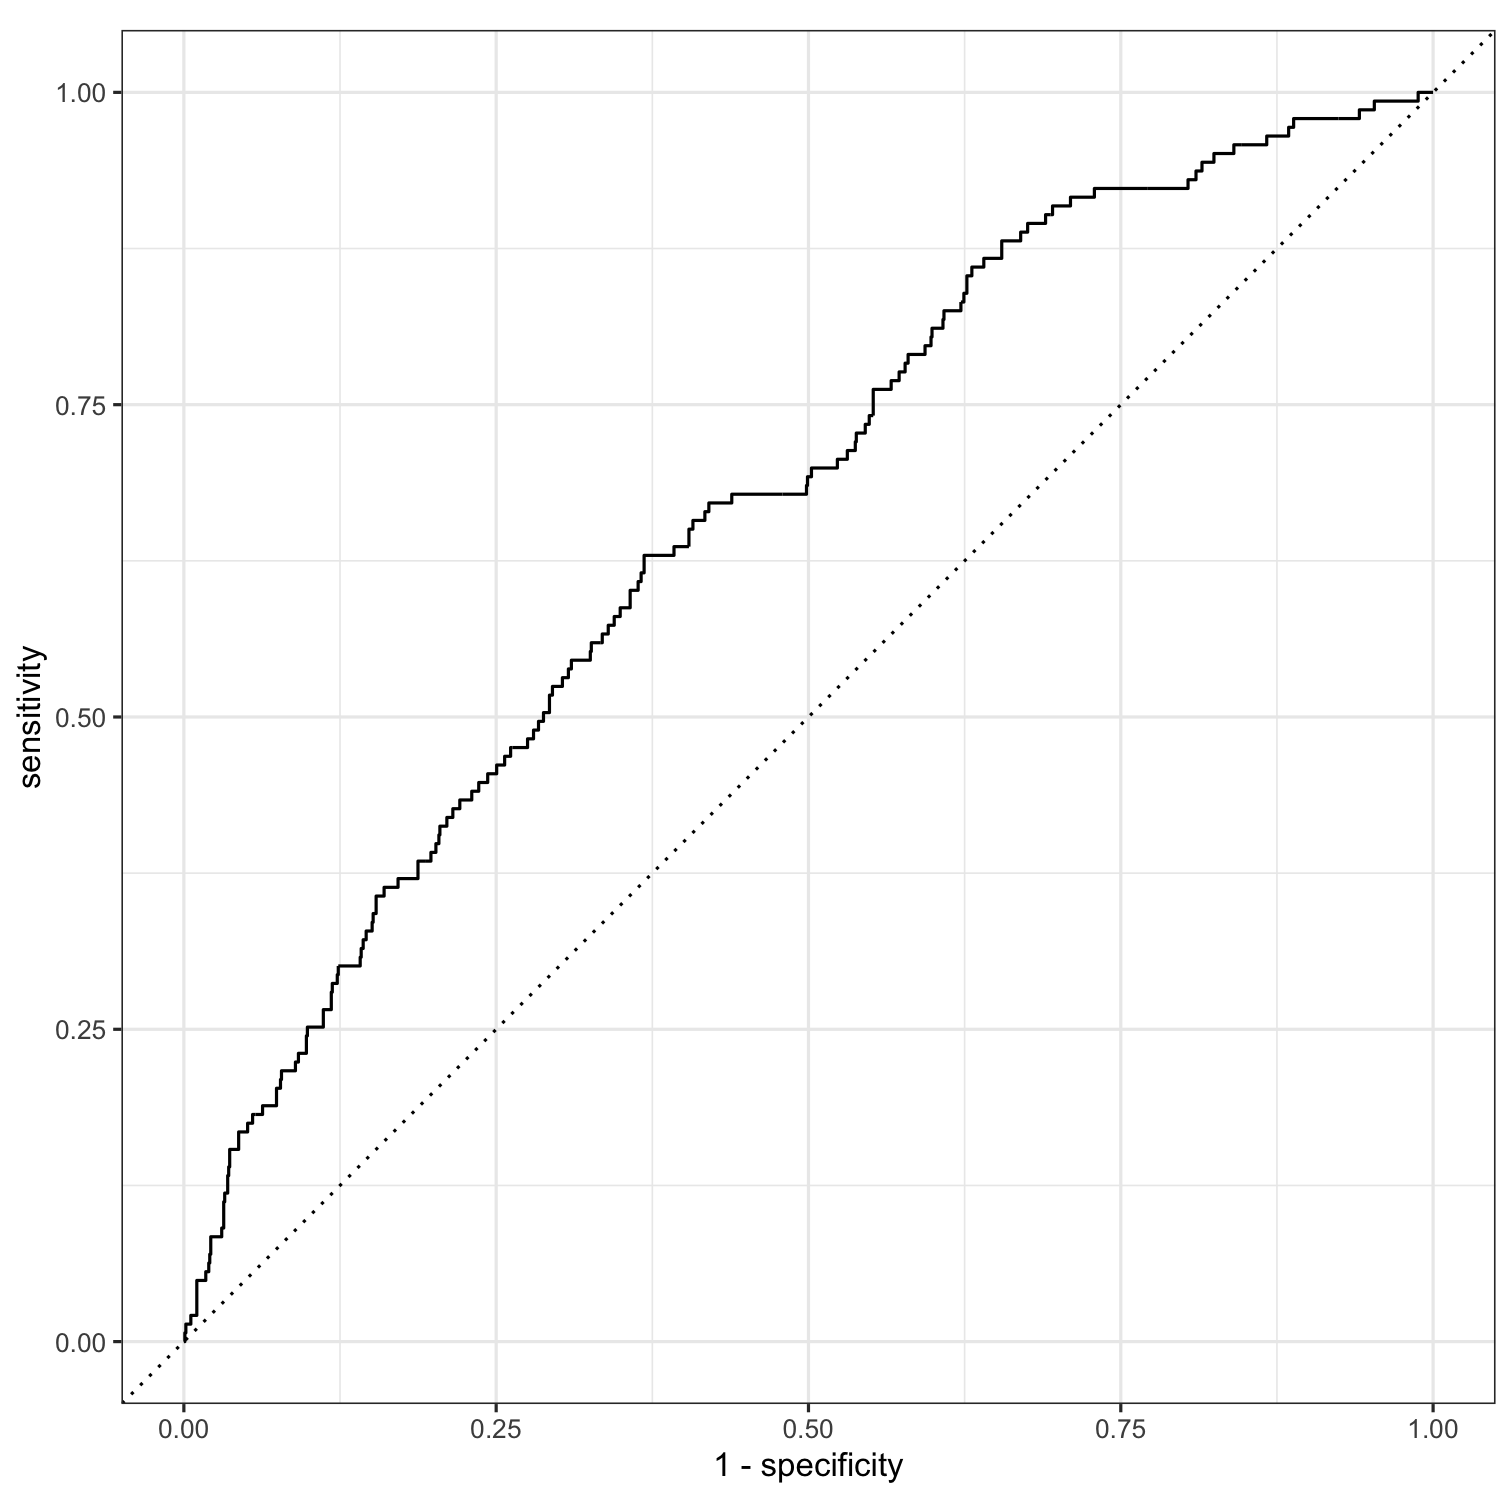
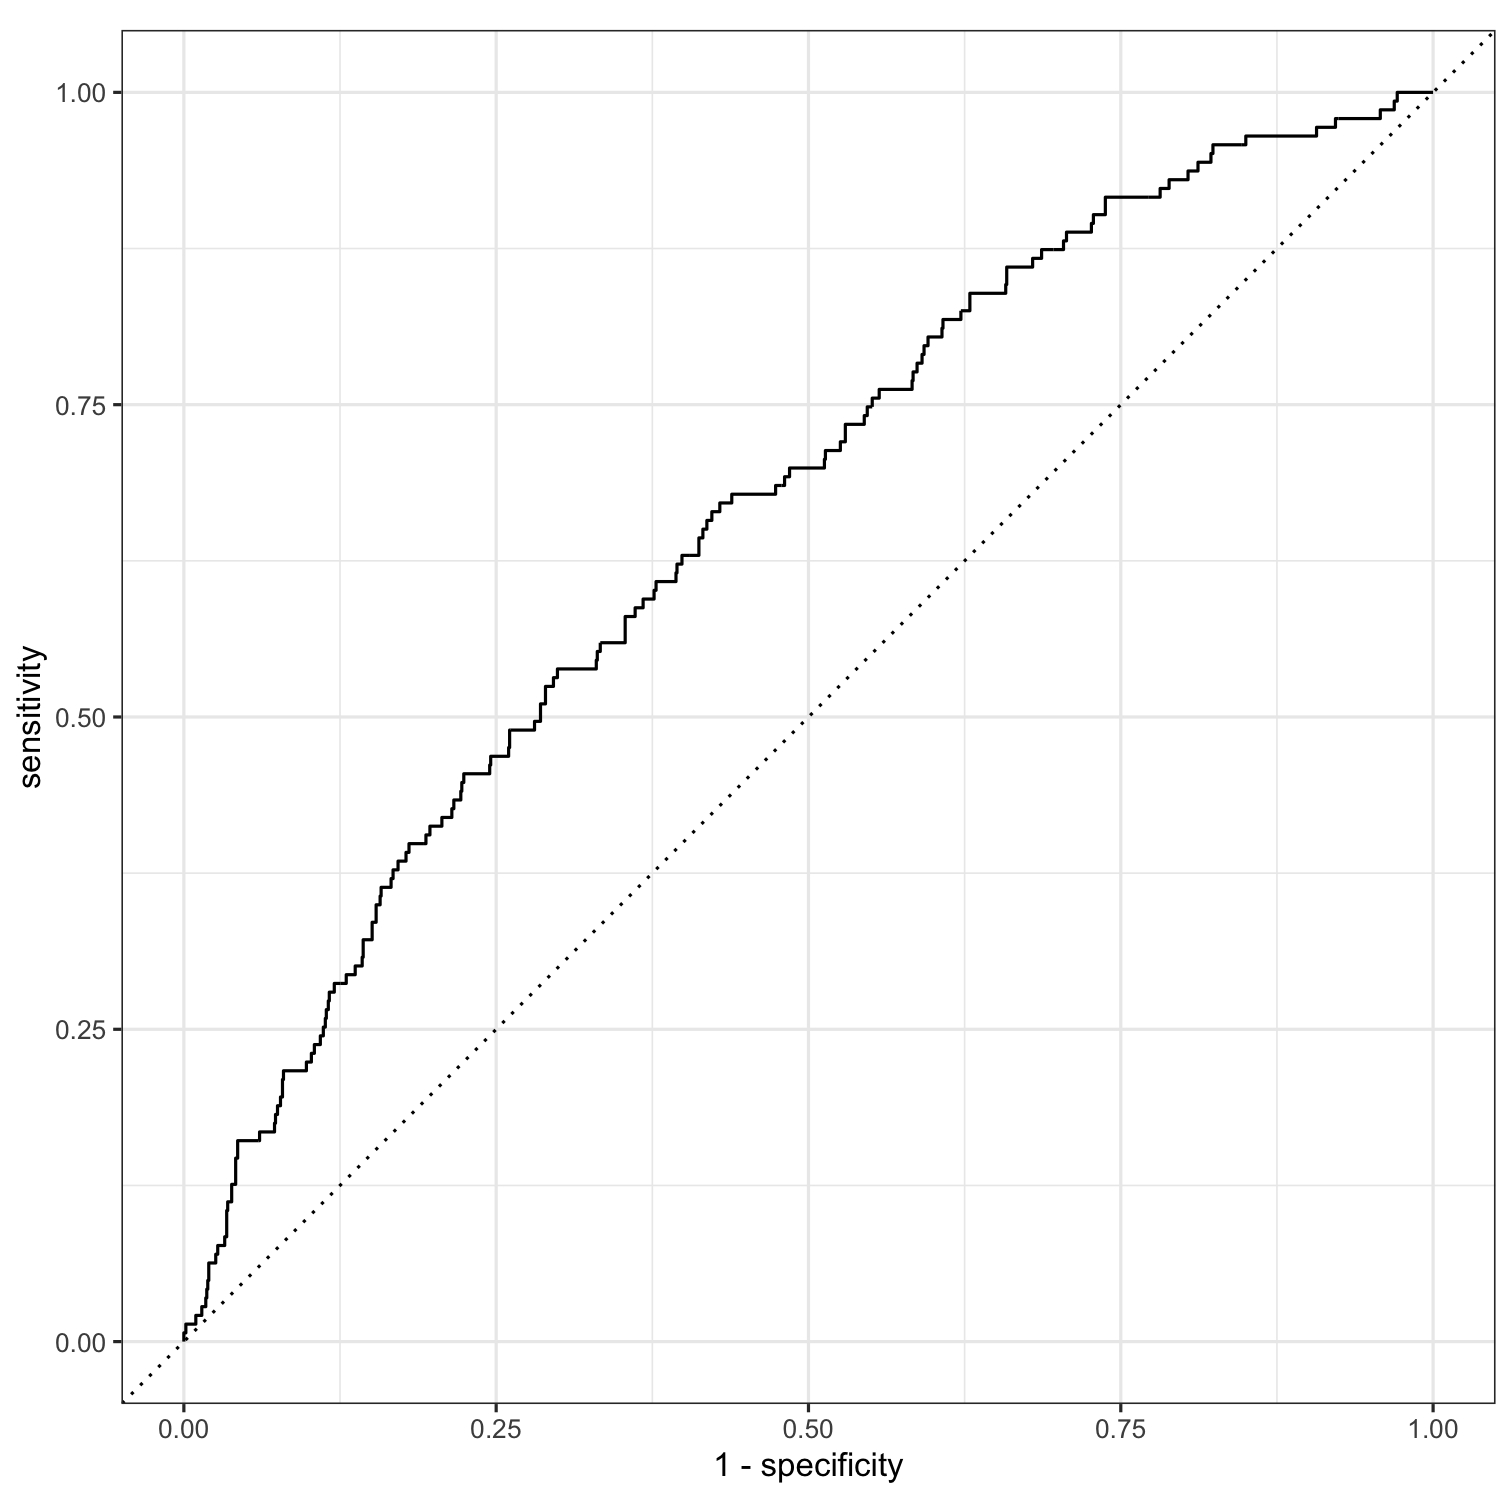
finish exercises; update slides

diff --git a/site/static/slides/14-Tuning.html b/site/static/slides/14-Tuning.html
@@ -4,7 +4,7 @@
     <title>Model Tuning</title>
     <meta charset="utf-8" />
     <meta name="author" content="W. Jake Thompson" />
-    <meta name="date" content="2021-06-04" />
+    <meta name="date" content="2021-06-06" />
     <script src="libs/header-attrs/header-attrs.js"></script>
     <link href="libs/remark-css/default.css" rel="stylesheet" />
     <script src="libs/clipboard/clipboard.min.js"></script>
@@ -87,7 +87,7 @@ class: your-turn
 * Run the setup chunk
 ]
 
-<div class="countdown" id="timer_60bade14" style="right:0;bottom:0;font-size:2em;" data-warnwhen="0">
+<div class="countdown" id="timer_60bd4ba2" style="right:0;bottom:0;font-size:2em;" data-warnwhen="0">
 <code class="countdown-time"><span class="countdown-digits minutes">01</span><span class="countdown-digits colon">:</span><span class="countdown-digits seconds">00</span></code>
 </div>
 
@@ -157,7 +157,7 @@ knn5_spec &lt;-
   set_mode("regression")
 ```
 
-<div class="countdown" id="timer_60badd48" style="right:0;bottom:0;" data-warnwhen="0">
+<div class="countdown" id="timer_60bd4d30" style="right:0;bottom:0;" data-warnwhen="0">
 <code class="countdown-time"><span class="countdown-digits minutes">01</span><span class="countdown-digits colon">:</span><span class="countdown-digits seconds">00</span></code>
 </div>
 
@@ -168,7 +168,7 @@ class: your-turn
 
 Combine the recipe and model into a new workflow named `knn_wf`. Fit the workflow to `cv_folds` and collect its RMSE.
 
-<div class="countdown" id="timer_60badd12" style="right:0;bottom:0;" data-warnwhen="0">
+<div class="countdown" id="timer_60bd4a1a" style="right:0;bottom:0;" data-warnwhen="0">
 <code class="countdown-time"><span class="countdown-digits minutes">05</span><span class="countdown-digits colon">:</span><span class="countdown-digits seconds">00</span></code>
 </div>
 
@@ -199,7 +199,7 @@ class: your-turn
 
 Repeat the process in Your Turn 1 with a similar workflow that uses `neighbors = 10`. Does the RMSE change?
 
-<div class="countdown" id="timer_60badc4d" style="right:0;bottom:0;" data-warnwhen="0">
+<div class="countdown" id="timer_60bd4d17" style="right:0;bottom:0;" data-warnwhen="0">
 <code class="countdown-time"><span class="countdown-digits minutes">05</span><span class="countdown-digits colon">:</span><span class="countdown-digits seconds">00</span></code>
 </div>
 
@@ -438,7 +438,7 @@ class: your-turn
 
 Use `expand_grid()` to create a grid of values for neighbors that spans from 10 to 20. Save the result as `k10_20`.
 
-<div class="countdown" id="timer_60baddc8" style="right:0;bottom:0;" data-warnwhen="0">
+<div class="countdown" id="timer_60bd4a5d" style="right:0;bottom:0;" data-warnwhen="0">
 <code class="countdown-time"><span class="countdown-digits minutes">02</span><span class="countdown-digits colon">:</span><span class="countdown-digits seconds">00</span></code>
 </div>
 
@@ -470,13 +470,13 @@ class: your-turn
 
 # Your Turn 4
 
-Create a knn workflow that tunes over neighbors. 
+Create a knn workflow that tunes over `neighbors` and uses your `normalize_rec` recipe.
 
 Then use `tune_grid()`, `cv_folds` and `k10_20` to find the best value of neighbors. 
 
 Save the output of `tune_grid()` as `knn_results`.
 
-<div class="countdown" id="timer_60badd1f" style="right:0;bottom:0;" data-warnwhen="0">
+<div class="countdown" id="timer_60bd4dae" style="right:0;bottom:0;" data-warnwhen="0">
 <code class="countdown-time"><span class="countdown-digits minutes">05</span><span class="countdown-digits colon">:</span><span class="countdown-digits seconds">00</span></code>
 </div>
 
@@ -596,7 +596,7 @@ class: your-turn
 Modify our PCA workflow provided to find the best value for `num_comp` on the grid provided. Which is it? Use `show_best()` to see. Save the output of the fit function as `pca_results`.
 
 
-<div class="countdown" id="timer_60baddf5" style="right:0;bottom:0;" data-warnwhen="0">
+<div class="countdown" id="timer_60bd4a4a" style="right:0;bottom:0;" data-warnwhen="0">
 <code class="countdown-time"><span class="countdown-digits minutes">05</span><span class="countdown-digits colon">:</span><span class="countdown-digits seconds">00</span></code>
 </div>
 
@@ -724,11 +724,11 @@ Edit the random forest model to tune the `mtry` and `min_n` hyper-parameters; ca
 
 Update the model for your workflow; save it as `rf_twf`.
 
-Tune the workflow to so_folds and show the best combination of hyper-parameters to maximize `roc_auc`. 
+Tune the workflow to `so_folds` and show the best combination of hyper-parameters to maximize `roc_auc`. 
 
 How does it compare to the average ROC AUC across folds from `fit_resamples()`?
 
-<div class="countdown" id="timer_60badf0e" style="right:0;bottom:0;" data-warnwhen="0">
+<div class="countdown" id="timer_60bd4c46" style="right:0;bottom:0;" data-warnwhen="0">
 <code class="countdown-time"><span class="countdown-digits minutes">10</span><span class="countdown-digits colon">:</span><span class="countdown-digits seconds">00</span></code>
 </div>
 
@@ -778,6 +778,16 @@ rf_twf_results %&gt;%
 ```
 ]
 ]
+
+???
+
+defaults:
+
+`mtry` = sqrt(# predictors) = sqrt(20) = 4
+
+`min_n` = 1
+
+roc_auc = .702
 
 ---
 class: center middle inverse
@@ -882,6 +892,14 @@ so_test_results &lt;-
 template: last-fit
 
 
+```
+#&gt; # Resampling results
+#&gt; # Manual resampling 
+#&gt; # A tibble: 1 x 6
+#&gt;   splits       id         .metrics      .notes       .predictions      .workflow
+#&gt;   &lt;list&gt;       &lt;chr&gt;      &lt;list&gt;        &lt;list&gt;       &lt;list&gt;            &lt;list&gt;   
+#&gt; 1 &lt;split [419… train/tes… &lt;tibble[,4] … &lt;tibble[,1]… &lt;tibble[,6] [1,3… &lt;workflo…
+```
 
 ---
 class: your-turn
@@ -892,7 +910,7 @@ Use `select_best()`, `finalize_workflow()`, and `last_fit()` to take the best co
 
 How does our actual test ROC AUC compare to our cross-validated estimate?
 
-<div class="countdown" id="timer_60badda6" style="right:0;bottom:0;" data-warnwhen="0">
+<div class="countdown" id="timer_60bd4d10" style="right:0;bottom:0;" data-warnwhen="0">
 <code class="countdown-time"><span class="countdown-digits minutes">05</span><span class="countdown-digits colon">:</span><span class="countdown-digits seconds">00</span></code>
 </div>
 
@@ -915,7 +933,39 @@ so_test_results &lt;-
 
 so_test_results %&gt;%
   collect_metrics()
+#&gt; # A tibble: 2 x 4
+#&gt;   .metric  .estimator .estimate .config             
+#&gt;   &lt;chr&gt;    &lt;chr&gt;          &lt;dbl&gt; &lt;chr&gt;               
+#&gt; 1 accuracy binary         0.634 Preprocessor1_Model1
+#&gt; 2 roc_auc  binary         0.661 Preprocessor1_Model1
 ```
+
+---
+# Comparing performance
+
+**Resampling**
+
+```
+#&gt; # A tibble: 1 x 8
+#&gt;    mtry min_n .metric .estimator  mean     n std_err .config              
+#&gt;   &lt;int&gt; &lt;int&gt; &lt;chr&gt;   &lt;chr&gt;      &lt;dbl&gt; &lt;int&gt;   &lt;dbl&gt; &lt;chr&gt;                
+#&gt; 1     1     9 roc_auc binary     0.707    10  0.0143 Preprocessor1_Model02
+```
+
+--
+
+**Test Set**
+
+```
+#&gt; # A tibble: 1 x 4
+#&gt;   .metric .estimator .estimate .config             
+#&gt;   &lt;chr&gt;   &lt;chr&gt;          &lt;dbl&gt; &lt;chr&gt;               
+#&gt; 1 roc_auc binary         0.661 Preprocessor1_Model1
+```
+
+???
+
+Ideally, performance estimated from resampling should be similar to what is seen in the test set. If performance from resampling higher, there may be concerns about overfitting.
 
 ---
 class: center middle inverse
@@ -932,8 +982,8 @@ so_test_results %&gt;%
 #&gt; # A tibble: 2 x 4
 #&gt;   .metric  .estimator .estimate .config             
 #&gt;   &lt;chr&gt;    &lt;chr&gt;          &lt;dbl&gt; &lt;chr&gt;               
-#&gt; 1 accuracy binary         0.642 Preprocessor1_Model1
-#&gt; 2 roc_auc  binary         0.666 Preprocessor1_Model1
+#&gt; 1 accuracy binary         0.634 Preprocessor1_Model1
+#&gt; 2 roc_auc  binary         0.661 Preprocessor1_Model1
 ```
 
 ---
@@ -946,16 +996,16 @@ so_test_results %&gt;%
 #&gt; # A tibble: 1,397 x 7
 #&gt;    id        .pred_Remote `.pred_Not remot…  .row .pred_class Remote  .config   
 #&gt;    &lt;chr&gt;            &lt;dbl&gt;             &lt;dbl&gt; &lt;int&gt; &lt;fct&gt;       &lt;fct&gt;   &lt;chr&gt;     
-#&gt;  1 train/te…        0.552             0.448     2 Remote      Remote  Preproces…
-#&gt;  2 train/te…        0.566             0.434     9 Remote      Not re… Preproces…
-#&gt;  3 train/te…        0.450             0.550    10 Not remote  Not re… Preproces…
-#&gt;  4 train/te…        0.555             0.445    17 Remote      Not re… Preproces…
-#&gt;  5 train/te…        0.620             0.380    23 Remote      Not re… Preproces…
-#&gt;  6 train/te…        0.466             0.534    27 Not remote  Not re… Preproces…
-#&gt;  7 train/te…        0.489             0.511    28 Not remote  Not re… Preproces…
-#&gt;  8 train/te…        0.440             0.560    45 Not remote  Not re… Preproces…
-#&gt;  9 train/te…        0.397             0.603    46 Not remote  Not re… Preproces…
-#&gt; 10 train/te…        0.488             0.512    48 Not remote  Not re… Preproces…
+#&gt;  1 train/te…        0.570             0.430     2 Remote      Remote  Preproces…
+#&gt;  2 train/te…        0.583             0.417     9 Remote      Not re… Preproces…
+#&gt;  3 train/te…        0.461             0.539    10 Not remote  Not re… Preproces…
+#&gt;  4 train/te…        0.547             0.453    17 Remote      Not re… Preproces…
+#&gt;  5 train/te…        0.627             0.373    23 Remote      Not re… Preproces…
+#&gt;  6 train/te…        0.449             0.551    27 Not remote  Not re… Preproces…
+#&gt;  7 train/te…        0.497             0.503    28 Not remote  Not re… Preproces…
+#&gt;  8 train/te…        0.439             0.561    45 Not remote  Not re… Preproces…
+#&gt;  9 train/te…        0.400             0.600    46 Not remote  Not re… Preproces…
+#&gt; 10 train/te…        0.497             0.503    48 Not remote  Not re… Preproces…
 #&gt; # … with 1,387 more rows
 ```
 
